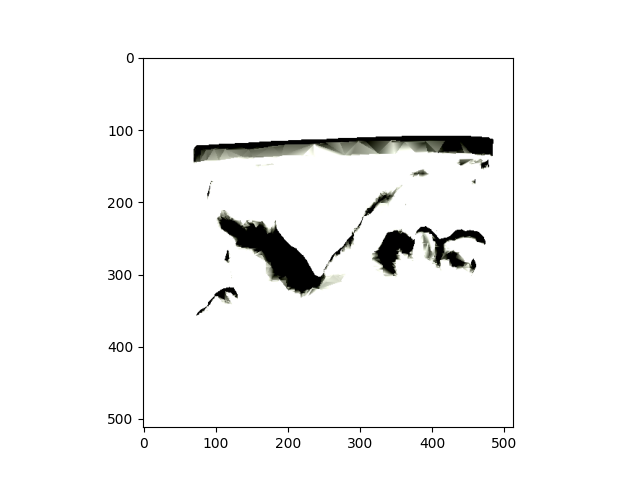
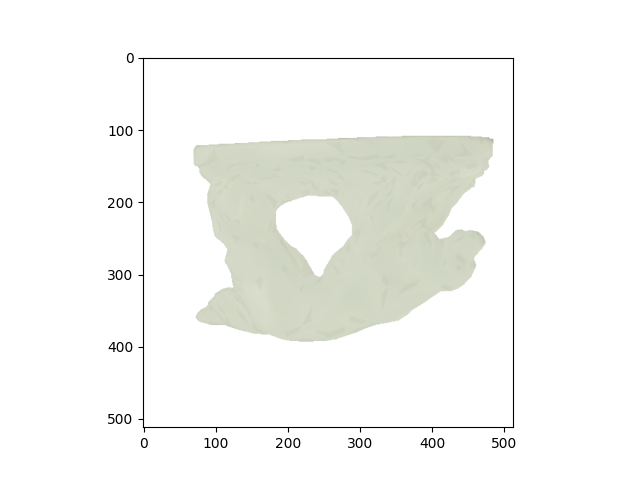
better | still not working

Changed region(s): [[0.2812, 0.2812, 0.7812, 0.7188]]

diff --git a/pointLight.py b/pointLight.py
@@ -18,11 +18,10 @@ def light(point, normal, vcolor, cam_pos, mat, lights, light_amb):
     for i in range(len(lights)):
         # Compute the L vector that is parallel to light beams
         L = lights[i].pos - point
-        fatt = 1/np.linalg.norm(L)
-        L = L / np.linalg.norm(L)
         # Compute the fatt attenuation coefficient
         fatt = 1/np.linalg.norm(L)
-        diffusions.append(lights[i].intensity * mat.kd * fatt * np.dot(normal, L))
+        L = L / np.linalg.norm(L)
+        diffusions.append(lights[i].intensity * mat.kd * min(1, fatt) * np.dot(normal, L))
 
     # Specular light component
     speculars = []
@@ -30,10 +29,11 @@ def light(point, normal, vcolor, cam_pos, mat, lights, light_amb):
     dotNL = np.dot(normal, L)
     for i in range(len(lights)):
         L = (lights[i].pos - point)
+        # Compute the fatt attenuation coefficient
         fatt = 1/np.linalg.norm(L)
         L = L / np.linalg.norm(L)
         dotNL = np.dot(normal, L)
-        speculars.append(lights[i].intensity * fatt * mat.ks * (np.dot((2 * normal * dotNL - L), V) ** mat.n))
+        speculars.append(lights[i].intensity * min(1, fatt) * mat.ks * (np.dot((2 * normal * dotNL - L), V) ** mat.n))
 
     # Combination
     I = ambiance + np.sum(diffusions) + np.sum(speculars)
